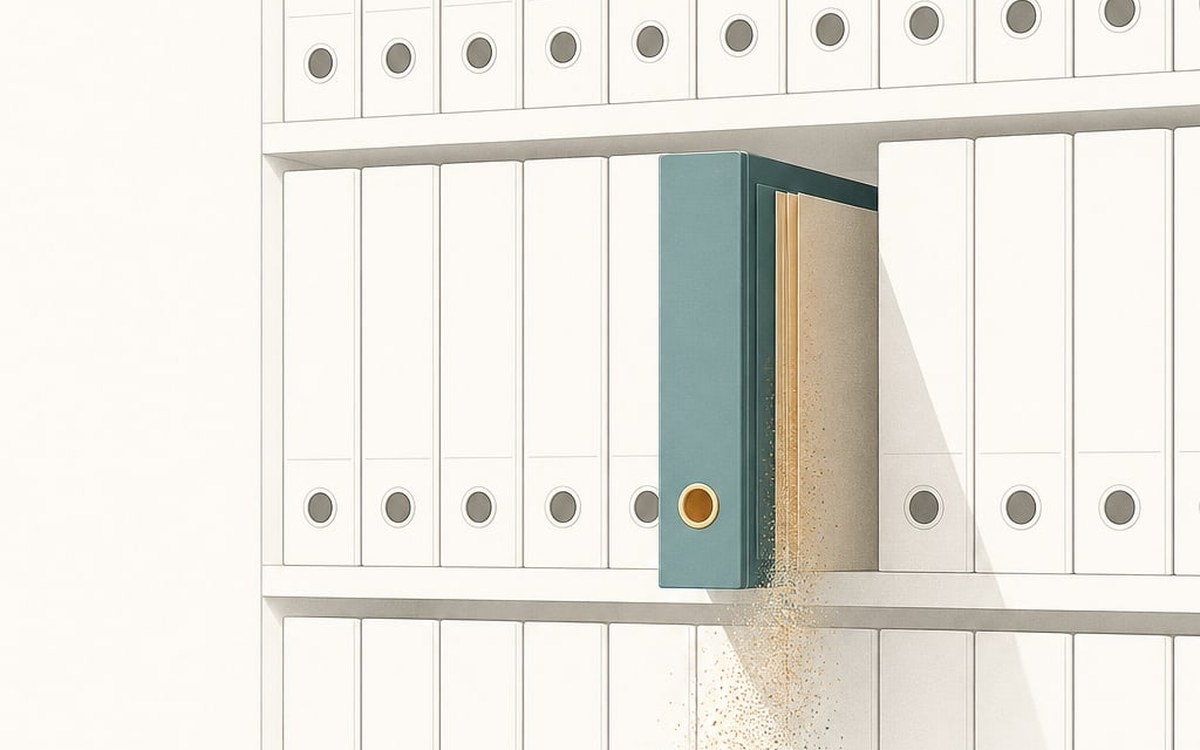
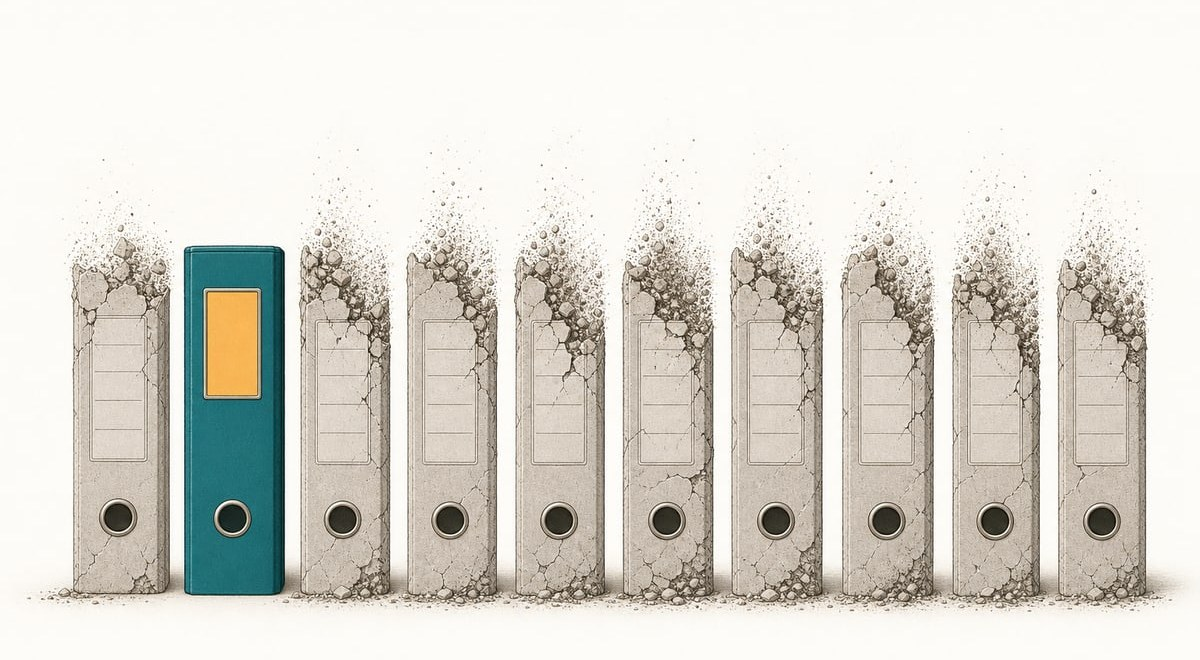
fix(newsletter): 히어로를 직독형(열에 아홉 무너짐)으로 교체

diff --git a/briefs/001-silent-shelving.html b/briefs/001-silent-shelving.html
@@ -46,7 +46,7 @@
           </tr>
           <tr>
             <td class="pad" style="padding:26px 44px 0;">
-              <img src="https://ahn-partners.net/images/newsletter/no001-hero.jpg" width="512" alt="서가에 꽂힌 프로젝트 바인더 하나가 조용히 먼지로 흩어지는 그림" style="display:block;border:0;width:100%;height:auto;border-radius:4px;">
+              <img src="https://ahn-partners.net/images/newsletter/no001-hero.jpg?v=2" width="512" alt="프로젝트 바인더 열 개 중 아홉 개가 먼지로 무너지고 하나만 남은 그림" style="display:block;border:0;width:100%;height:auto;border-radius:4px;">
             </td>
           </tr>
           <tr>
